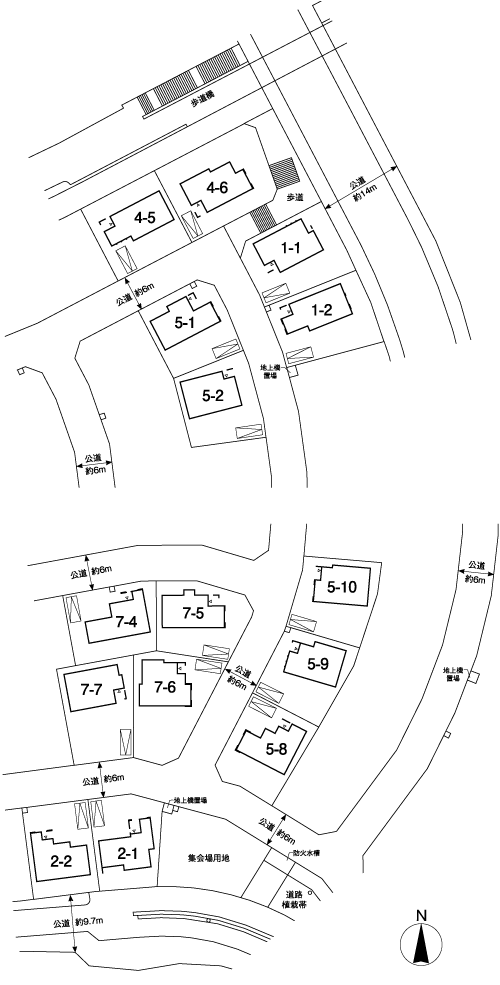
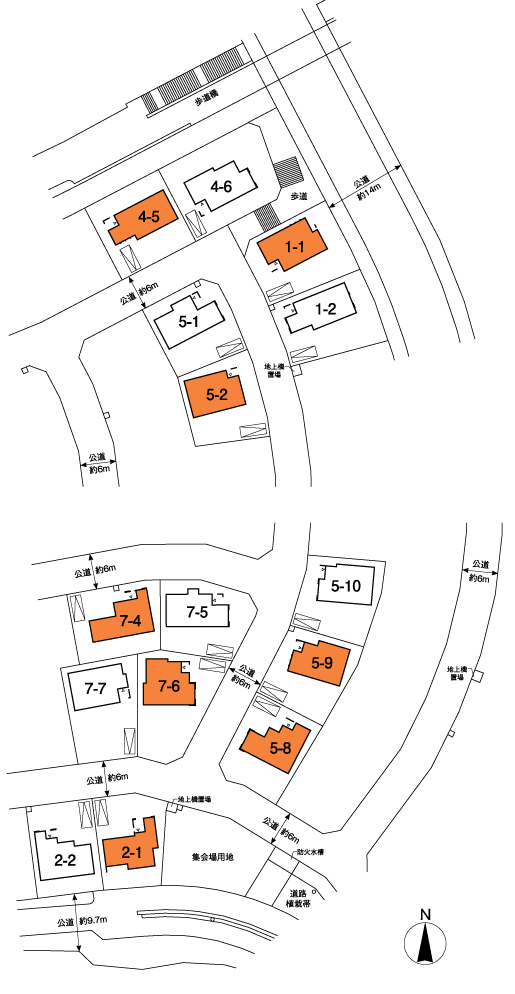
a

diff --git a/leafia_minamiosawa_4th/plans/js/plan.js b/leafia_minamiosawa_4th/plans/js/plan.js
@@ -5,10 +5,10 @@ var planPage = (function() {
 		closePopup();
 		$(window).resize(function(){
 			if($(window).width() <=600){
-				$('.selectRoom .map.mobile').removeAttr('style');
+				//$('.selectRoom .map.mobile').removeAttr('style');
 				$('.selectRoom .map.normal').removeAttr('style');
 			}else{
-				$('.selectRoom .map.mobile').removeAttr('style');
+				//$('.selectRoom .map.mobile').removeAttr('style');
 				$('.selectRoom .map.normal').removeAttr('style');
 			}
 		});
@@ -25,29 +25,28 @@ var planPage = (function() {
 	function openRoom(idDiv){
 		$('.popup').css('display', 'none');
 		$('#' + idDiv).css('display', 'block');
-		var top =$('#' + idDiv).offset().top;
-		console.log(top);
-		$('html, body').animate({
-            scrollTop:top
-        }, 800);
+		var top =$(window).scrollTop();
+		$('#' + idDiv + '.popup').css('top', top-300);
+		
 	}
 	function hoverRoom(idDiv){
 		if($(window).width() > 600){
 			$('.room .r, .selectRoom .map.normal').css('display', 'none');
 		}else{
-			$('.room .r').css('display', 'none');
-			$('.selectRoom .map.mobile').css('opacity', '0');
+			//$('.room .r').css('display', 'none');
+			//$('.selectRoom .map.mobile').css('opacity', '0');
 		}
 		$('#' + idDiv).css('display', 'block');
 	}
 	function outRoom(){
 		$('.selectRoom a.choose').mouseout(function(){
-			$('.room .r').css('display', 'none');
+			
 			if($(window).width() > 600){
+				$('.room .r').css('display', 'none');
 				$('.selectRoom .map.normal').css('display', 'block');
 			}else{
 				$('.selectRoom .map.mobile').css('display', 'block');
-				$('.selectRoom .map.mobile').css('opacity', '1');
+				//$('.selectRoom .map.mobile').css('opacity', '1');
 			}
 			
 		});

diff --git a/leafia_minamiosawa_4th/plans/index.html b/leafia_minamiosawa_4th/plans/index.html
@@ -132,7 +132,7 @@
    							<div class="roommap">
                            <div class="selectRoom">
                               <div class="map normal"></div>
-                              <div class="map mobile"><img src="imgs/responsive/map.png" alt=""></div>
+                              <div class="map mobile" style=""><img src="imgs/responsive/map.png" alt=""></div>
                               <div class="room">
                                  <div class="room-4-5 r" id="room-4-5"><img class="normal" src="imgs/room/r4-5.png"/><img class="mobile" src="imgs/responsive/r4-5.png"/></div>
                                  <div class="room-4-6 r" id="room-4-6"><img class="normal" src="imgs/room/r4-6.png"/><img class="mobile" src="imgs/responsive/r4-6.png"/></div>

diff --git a/leafia_minamiosawa_4th/plans/css/style.css b/leafia_minamiosawa_4th/plans/css/style.css
@@ -522,9 +522,9 @@
 	.selectRoom a.choose{
 		position: absolute;
 		margin-left: 0!important;
-	    margin-top: 0!important;
-	    height: 6%;
-	    width: 14%;
+		margin-top: 0!important;
+		height: 6%;
+		width: 15%;
 	}
 	.selectRoom{
 		max-height: 985px;
@@ -624,6 +624,16 @@
 	}
 	.popup.popup-plan2 .pContent .plan4{
 		padding-top: 10px;
+	}
+	.room{
+		display: none;
+	}
+	#room-4-5, #room-1-1, #room-5-2, #room-7-4,#room-7-6, #room-2-1, #room-5-8, #room-5-9 {
+		display: block;
+	}
+	.selectRoom a.choose:hover{
+		opacity: 0.4;
+		background: #fff;
 	}
 }
 /* @media 600 END */
